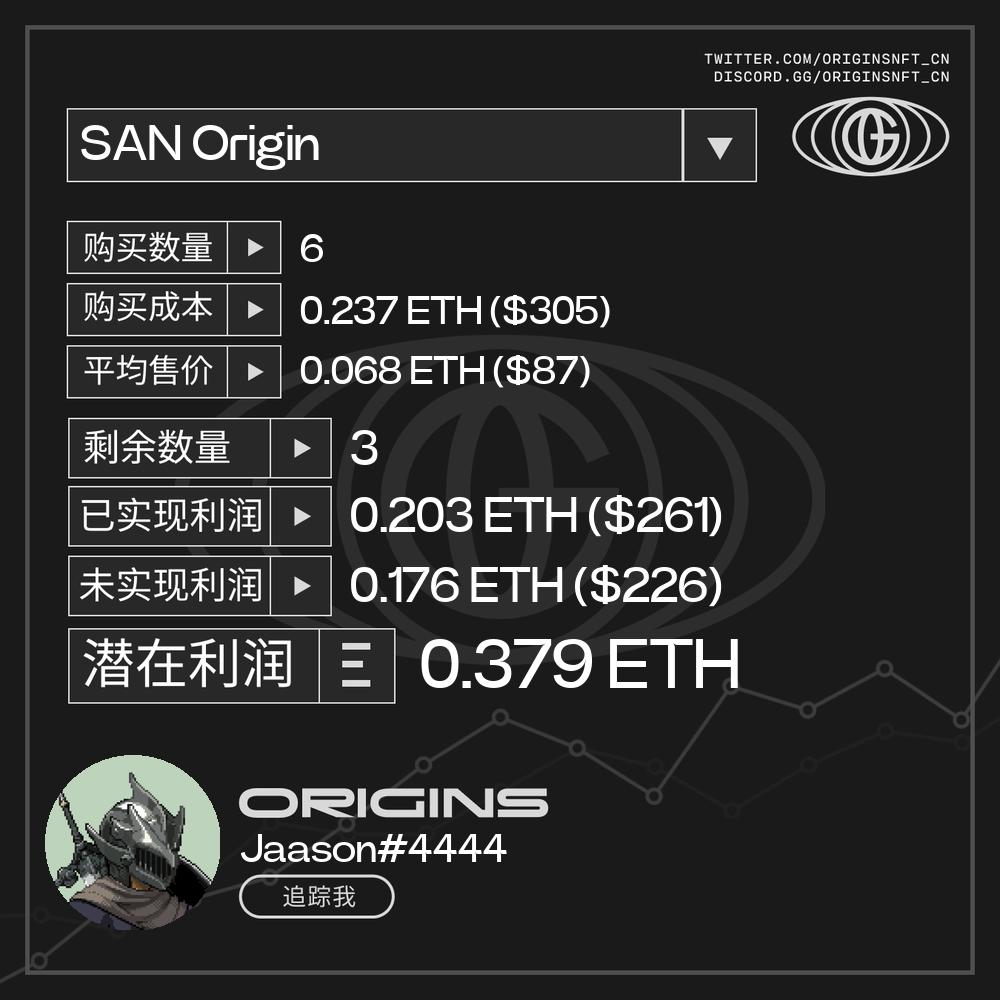
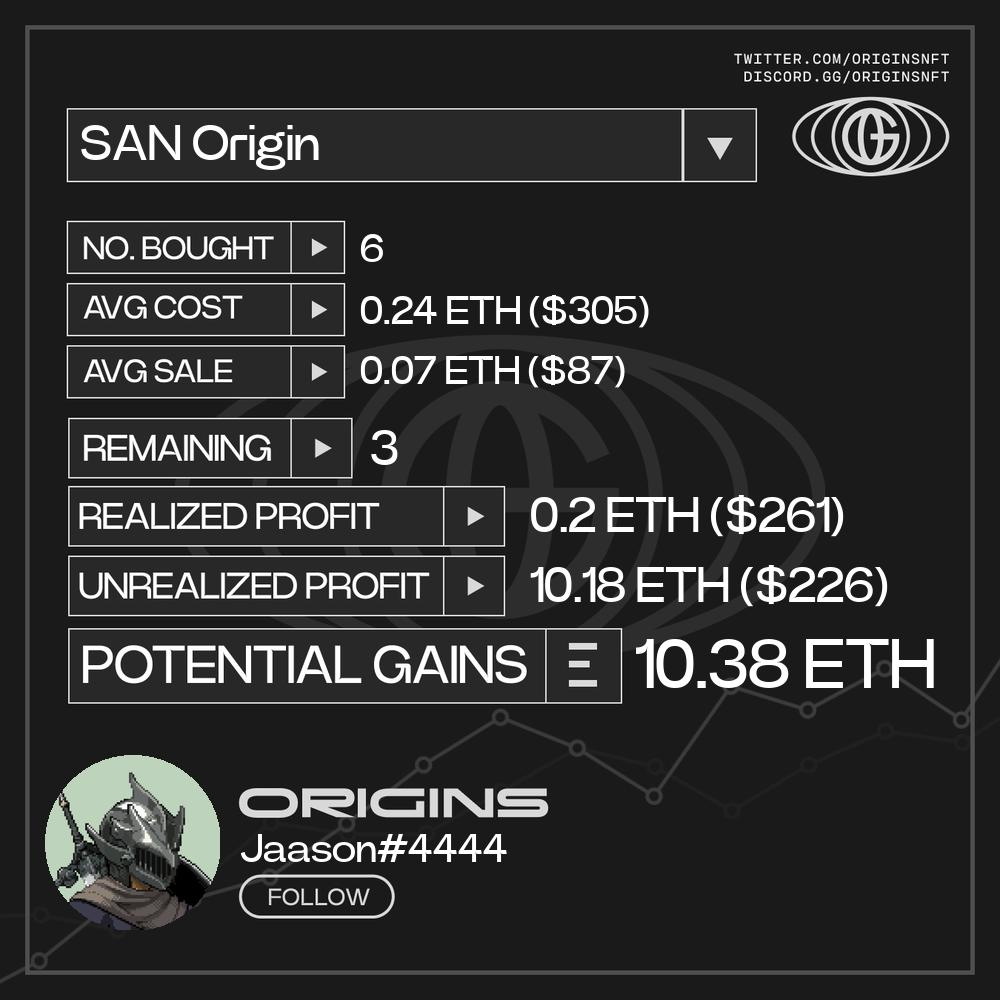
code refactor

Changed region(s): [[0.062, 0.217, 0.961, 0.713], [0.713, 0.031, 0.961, 0.093], [0.279, 0.868, 0.372, 0.93]]

diff --git a/image_generation.py b/image_generation.py
@@ -7,7 +7,7 @@ import requests
 
 here = os.path.dirname(os.path.abspath(__file__))
 
-def profit_image(user, data, template_filename, font_name, magic_pixels):
+def profit_image(user, data, template_filename, font, magic, eth_decimal):
     avatar_url = str(user.avatar)
     discord_name = str(user.name)
     avatar_url = avatar_url.replace("size=1024", "size=256")
@@ -16,10 +16,8 @@ def profit_image(user, data, template_filename, font_name, magic_pixels):
     except:
         return
     icon = Image.open(BytesIO(response.content))
-    return generate_pil_image(discord_name, icon, data, template_filename, font_name, magic_pixels)
-
-def generate_pil_image(discord_name, icon, data, template_filename, font, magic):
     font_location = os.path.join(here, "resources", "fonts", font)
+
     mega_font = ImageFont.truetype(font_location, size=120)
     big_font = ImageFont.truetype(font_location, size=70)
     medium_font = ImageFont.truetype(font_location, size=50)
@@ -47,13 +45,13 @@ def generate_pil_image(discord_name, icon, data, template_filename, font, magic)
 
     # draw data
     draw.text(magic[4], str(data['total_buy_amount']), font=small_font, fill='white')
-    draw.text(magic[5], f"{data['eth_spent']} ETH (${data['usd_spent']})", font=small_font, fill='white')
-    draw.text(magic[6], f"{data['eth_avg_sell_price']} ETH (${data['usd_avg_sell_price']})", font=small_font, fill='white')
+    draw.text(magic[5], f"{round(data['eth_spent'], eth_decimal)} ETH (${data['usd_spent']})", font=small_font, fill='white')
+    draw.text(magic[6], f"{round(data['eth_avg_sell_price'], eth_decimal)} ETH (${data['usd_avg_sell_price']})", font=small_font, fill='white')
 
     draw.text(magic[7], str(data['total_nft_owned']), font=medium_font, fill='white')
-    draw.text(magic[8], f"{data['eth_gained']} ETH (${data['usd_gained']})", font=medium_font, fill='white')
-    draw.text(magic[9], f"{data['eth_holding_value']} ETH (${data['usd_holding_value']})", font=medium_font, fill='white')
-    draw.text(magic[10], f"{(data['eth_gained']+data['eth_holding_value'])} ETH", font=big_font, fill='white')
+    draw.text(magic[8], f"{round(data['eth_gained'], eth_decimal)} ETH (${data['usd_gained']})", font=medium_font, fill='white')
+    draw.text(magic[9], f"{round(data['eth_holding_value'], eth_decimal)} ETH (${data['usd_holding_value']})", font=medium_font, fill='white')
+    draw.text(magic[10], f"{round((data['eth_gained'] + data['eth_holding_value']), eth_decimal)} ETH", font=big_font, fill='white')
 
     return img
 
@@ -63,9 +61,9 @@ if __name__ == '__main__':
     # (buy amount x, buy amount y), (eth_spent x, eth_spent y), (eth_avg_sell_price x, eth_avg_sell_price y),
     # (total_nft_owned x, total_nft_owned y), (eth_gained x, eth_gained y), (eth_holding_value x, eth_holding_value y),
     # (potential_pl_eth x, potential_pl_eth y)]
-    magic = [[175, 175], [45, 755], [240, 830], [80, 120], [300, 230], [300, 292], [300, 352], [350, 425], [350, 492], [350, 562], [420, 632]]
-    data = {'project_name': 'SAN Origin', 'project_floor': 0.0587, 'project_floor_usd': 75, 'project_image_url': 'https://open-graph.opensea.io/v1/collections/san-origin', 'total_nft_owned': 3, 'total_trade_count': 4, 'total_mint_amount': 0, 'total_buy_amount': 6, 'total_sell_amount': 3, 'eth_gas_spent': 0.012, 'usd_gas_spent': 15, 'eth_spent': 0.237, 'eth_gained': 0.203, 'usd_spent': 305, 'usd_gained': 261, 'eth_avg_buy_price': 0.039, 'usd_avg_buy_price': 51, 'eth_avg_sell_price': 0.068, 'usd_avg_sell_price': 87, 'eth_holding_value': 0.176, 'usd_holding_value': 226, 'realised_pl_eth': -0.034, 'realised_pl_usd': -44, 'potential_pl_eth': 0.142, 'potential_pl_usd': 182, 'roi': 14.432685166430362}
+    magic = [[175, 175], [45, 755], [240, 830], [80, 120], [360, 230], [360, 292], [360, 352], [370, 425], [530, 492], [530, 562], [635, 632]]
+    data = {'project_name': 'SAN Origin', 'project_floor': 0.0587, 'project_floor_usd': 75, 'project_image_url': 'https://open-graph.opensea.io/v1/collections/san-origin', 'total_nft_owned': 3, 'total_trade_count': 4, 'total_mint_amount': 0, 'total_buy_amount': 6, 'total_sell_amount': 3, 'eth_gas_spent': 0.012, 'usd_gas_spent': 15, 'eth_spent': 0.237, 'eth_gained': 0.203, 'usd_spent': 305, 'usd_gained': 261, 'eth_avg_buy_price': 0.039, 'usd_avg_buy_price': 51, 'eth_avg_sell_price': 0.068, 'usd_avg_sell_price': 87, 'eth_holding_value': 10.176, 'usd_holding_value': 226, 'realised_pl_eth': -0.034, 'realised_pl_usd': -44, 'potential_pl_eth': 0.142, 'potential_pl_usd': 182, 'roi': 14.432685166430362}
     response = requests.get("https://cdn.discordapp.com/avatars/214359518740611072/095fe73005641221f8e6fac67fe7f579.png?size=256")
     icon = Image.open(BytesIO(response.content))
-    img = generate_pil_image("Jaason#4444", icon, data, "origins_template.jpg", "PowerGrotesk-Regular.ttf", magic)
+    img = profit_image("Jaason#4444", icon, data, "origins_en_template.jpg", "PowerGrotesk-Regular.ttf", magic, 2)
     img.save('test.jpg')

diff --git a/discord_bot.py b/discord_bot.py
@@ -107,7 +107,7 @@ async def profit(interaction: discord.Integration, os_link: str, wallet_addresse
         await interaction.followup.send(embed=embed, ephemeral=True)
     else:
         bytes = BytesIO()
-        img = profit_image(user, data, settings['template'], settings['font'], settings['magic'])
+        img = profit_image(user, data, settings['template'], settings['font'], settings['magic'], settings['eth_decimal'])
         img.save(bytes, 'jpeg', quality=100)
         bytes.seek(0)
         image = discord.File(bytes, filename="image.jpg")
